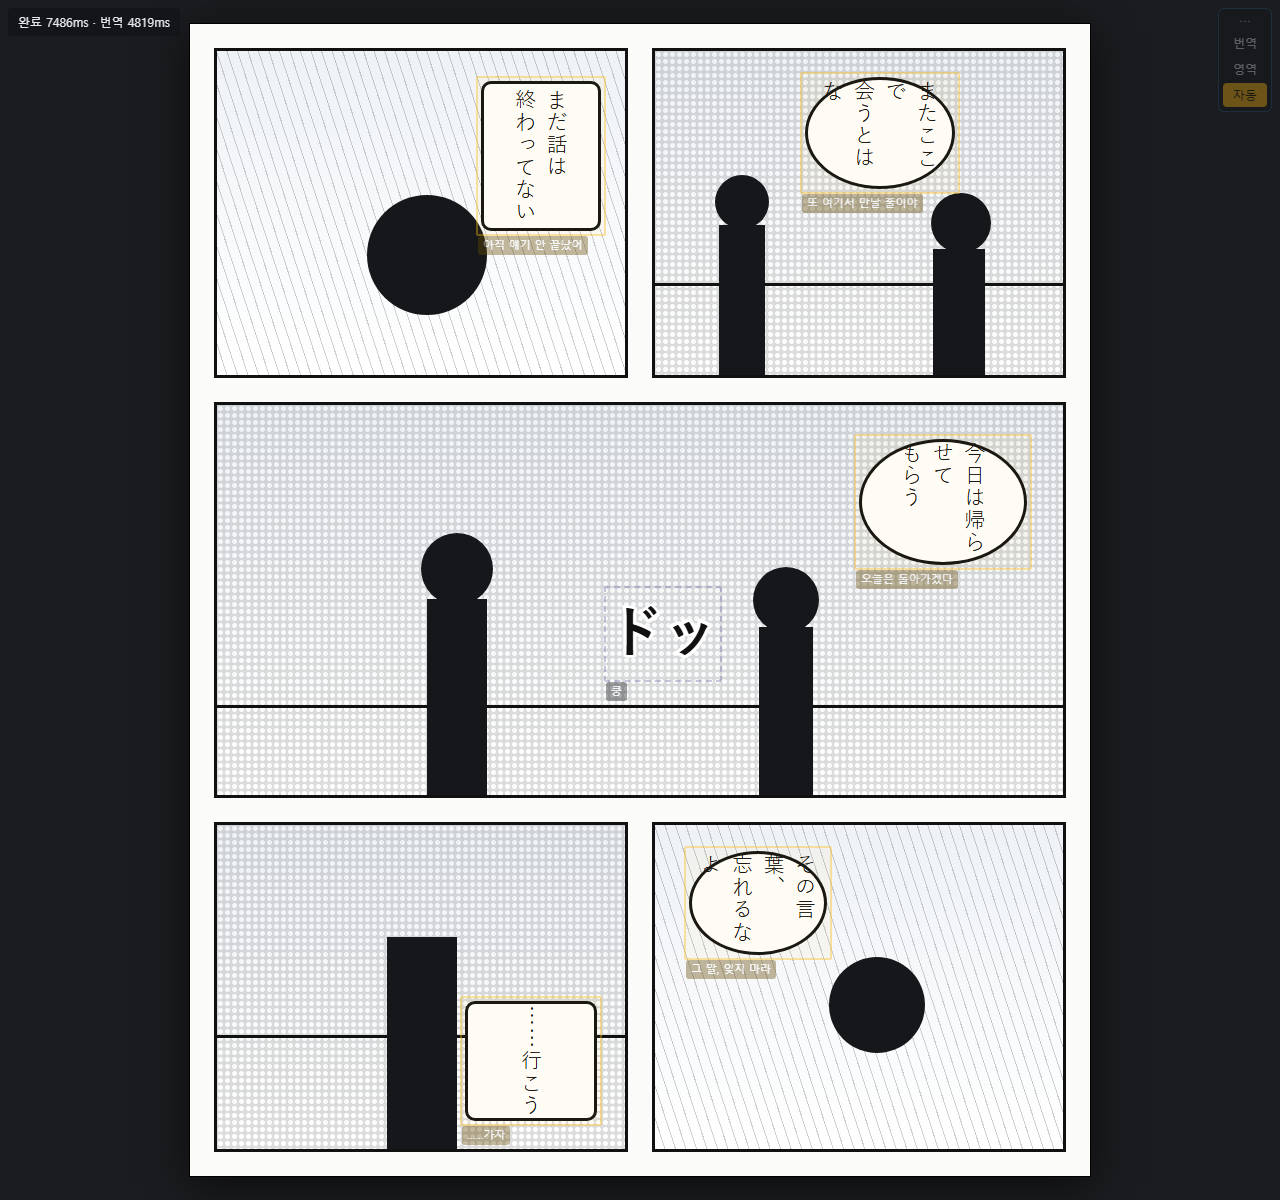
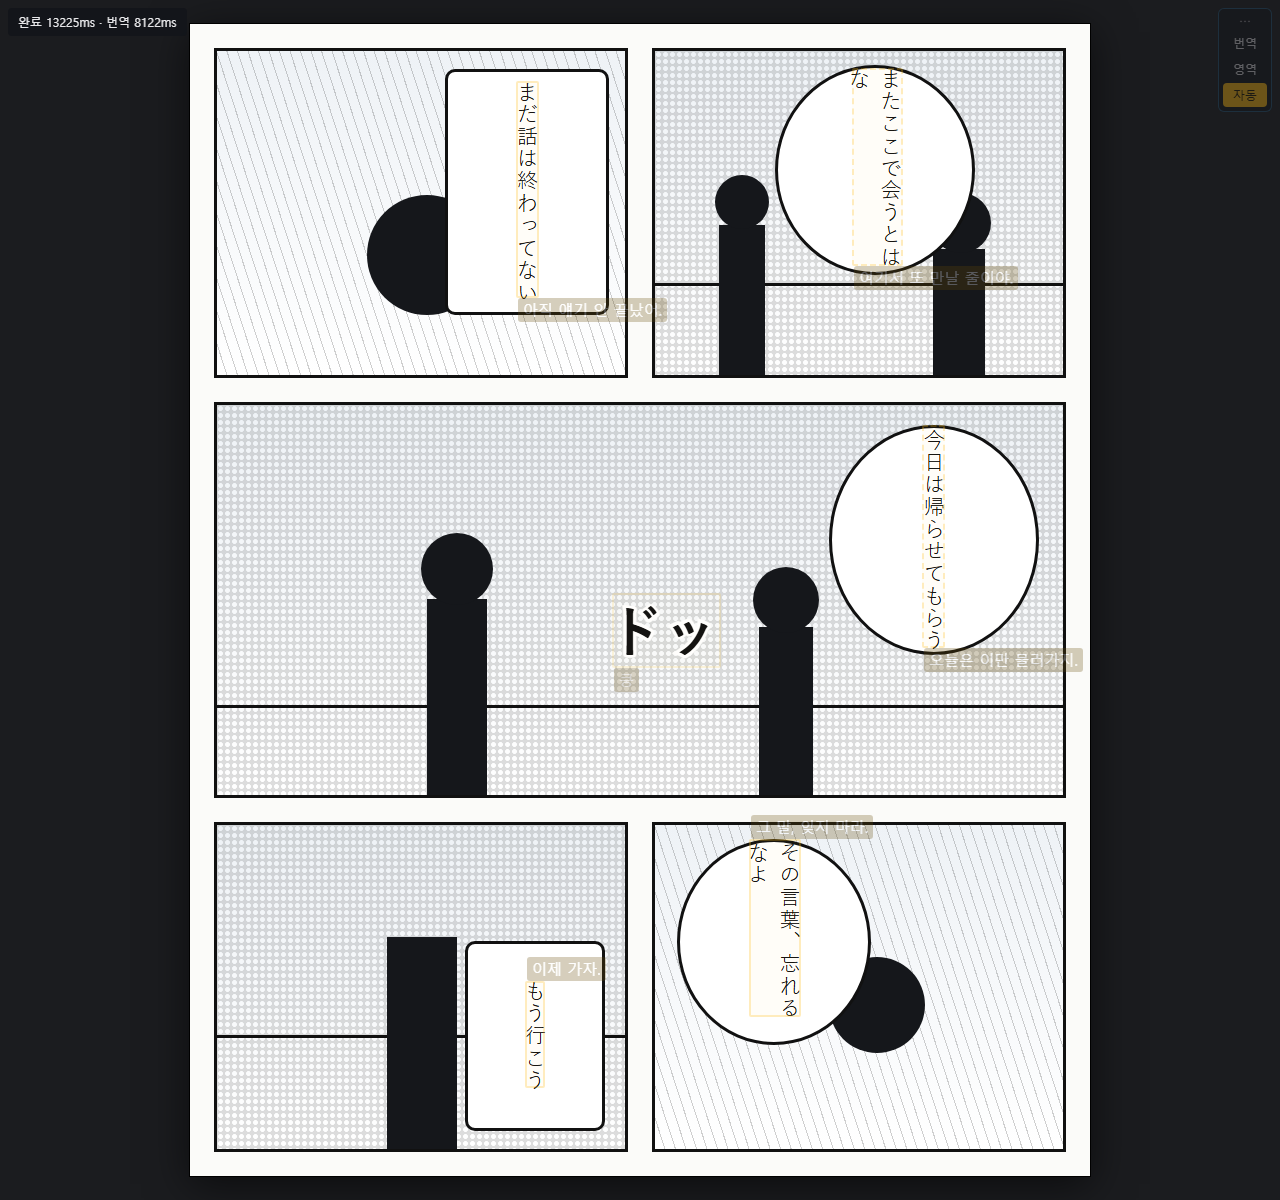
스크린샷을 진짜 결과로 바꾼다 — 그림만 손으로 그린 것이다
지어낸 번역문을 얹은 mock 이었다. 이제 그 페이지를 실제 파이프라인에 태운다
(docs/run_demo.py): 검출 → OCR → 읽기 순서 → 번역까지 서비스와 같은 코드다.

  검출 6개 584ms · OCR 4519ms (6곳 전부 정확) · 번역 8122ms (gemini-3.6-flash)
  종류 분류도 맞다 — dialogue 5, sfx 1(ドッ)

박스 좌표·원문·번역·상태줄 숫자가 전부 그 결과에서 온다. 손으로 적은 것은 없다.

걸린 것 두 가지를 고쳤다:
  · 말풍선 글줄을 <br> 로 손수 꺾었더니 세로쓰기 열이 어긋나 OCR 이 두 곳을 틀렸다.
    꺾지 않고 높이에 맡기니 6/6 이 됐다
  · 말풍선 위아래 여백이 좁아 is_bubble 판정 링이 검은 테두리에 닿았다. 여백을
    넓히니 4곳이 말풍선으로 잡힌다 (그래도 2곳은 밖으로 본다 — 합성 그림의 한계다)

라벨 배치는 layoutLabels() 가 하는 일 중 두 가지만 흉내 냈다 (아래쪽은 위로 붙이고,
오른쪽 끝에서는 폭을 줄인다). CSS 에 이미 있는 훅을 쓴다.

diff --git a/docs/demo.html b/docs/demo.html
@@ -59,14 +59,14 @@
     <div class="head" style="left:60px; bottom:146px; width:54px; height:54px"></div>
     <div class="figure" style="right:78px; width:52px; height:126px"></div>
     <div class="head" style="right:72px; bottom:122px; width:60px; height:60px"></div>
-    <div class="bal" data-ko="또 여기서 만날 줄이야" style="left:150px; top:26px; width:150px; height:112px"><span>またここで<br>会うとはな</span></div>
+    <div class="bal" style="left:120px; top:14px; width:200px; height:210px"><span>またここで会うとはな</span></div>
   </div>
 
   <!-- ② 왼쪽 위 -->
   <div class="panel" style="left:24px; top:24px; width:414px; height:330px">
     <div class="sky"></div><div class="speed"></div>
     <div class="head" style="left:150px; bottom:60px; width:120px; height:120px"></div>
-    <div class="bal sq" data-ko="아직 얘기 안 끝났어" style="right:24px; top:30px; width:120px; height:150px"><span>まだ話は<br>終わってない</span></div>
+    <div class="bal sq" style="right:16px; top:18px; width:164px; height:246px"><span>まだ話は終わってない</span></div>
   </div>
 
   <!-- ③ 오른쪽 아래 (넓은 칸) -->
@@ -77,21 +77,21 @@
     <div class="head" style="left:204px; bottom:190px; width:72px; height:72px"></div>
     <div class="figure" style="right:250px; width:54px; height:168px"></div>
     <div class="head" style="right:244px; bottom:162px; width:66px; height:66px"></div>
-    <div class="sfx" data-ko="쿵" data-kind="sfx" style="left:392px; top:186px">ドッ</div>
-    <div class="bal" data-ko="오늘은 돌아가겠다" style="right:36px; top:34px; width:168px; height:126px"><span>今日は帰らせて<br>もらう</span></div>
+    <div class="sfx" style="left:392px; top:186px">ドッ</div>
+    <div class="bal" style="right:24px; top:20px; width:210px; height:230px"><span>今日は帰らせてもらう</span></div>
   </div>
 
   <!-- ④ 아래 두 칸 -->
   <div class="panel" style="left:462px; top:798px; width:414px; height:330px">
     <div class="sky"></div><div class="speed"></div>
     <div class="head" style="left:174px; bottom:96px; width:96px; height:96px"></div>
-    <div class="bal" data-ko="그 말, 잊지 마라" style="left:34px; top:26px; width:138px; height:104px"><span>その言葉、<br>忘れるなよ</span></div>
+    <div class="bal" style="left:22px; top:14px; width:194px; height:206px"><span>その言葉、忘れるなよ</span></div>
   </div>
   <div class="panel" style="left:24px; top:798px; width:414px; height:330px">
     <div class="sky"></div><div class="tone"></div>
     <div class="horizon" style="top:210px"></div>
     <div class="figure" style="left:170px; width:70px; height:212px"></div>
-    <div class="bal sq" data-ko="……가자" style="right:28px; bottom:28px; width:132px; height:120px"><span>……行こう</span></div>
+    <div class="bal sq" style="right:20px; bottom:18px; width:140px; height:190px"><span>もう行こう</span></div>
   </div>
 </div>
 
@@ -99,7 +99,9 @@
      여기서부터가 확장이 그리는 것. 구조·클래스·스타일 전부 실물과 같다.
      좌표만 위 가짜 페이지에 맞춰 손으로 넣었다.
      =================================================================== -->
-<div id="mlr-overlay" class="mlr-show-all">
+<!-- 라벨 크기는 옵션 화면에서 고르는 값이다 (9-20px). 그림용으로 16px.
+     mlr-show-extra 는 「효과음」을 켠 상태 — ドッ 박스가 그래서 보인다. -->
+<div id="mlr-overlay" class="mlr-show-all mlr-show-extra" style="--mlr-label-size:16px">
   <div id="mlr-status">완료 7486ms · 번역 4819ms</div>
 
   <div id="mlr-boxes"></div>
@@ -112,21 +114,33 @@
   </div>
 </div>
 
+<script src="demo-result.js"></script>
 <script>
-// **박스는 재서 놓는다.** 손으로 좌표를 넣었더니 말풍선에서 밀렸다 — 실제 확장도
-// 검출된 bbox 를 받아 놓는 것이지 사람이 적어 넣지 않는다.
-const boxes = document.getElementById("mlr-boxes");
-for (const el of document.querySelectorAll("[data-ko]")) {
-  const r = el.getBoundingClientRect();
-  const pad = 5;                       // 검출 박스는 글자보다 조금 넓게 잡힌다
-  const div = document.createElement("div");
-  div.className = "mlr-box " + (el.dataset.kind === "sfx" ? "mlr-sfx" : "mlr-translated");
-  Object.assign(div.style, {
-    left: `${r.left - pad}px`, top: `${r.top - pad}px`,
-    width: `${r.width + pad * 2}px`, height: `${r.height + pad * 2}px`,
-  });
-  div.innerHTML = `<span class="mlr-label">${el.dataset.ko}</span>`;
-  boxes.appendChild(div);
+// **박스도 번역도 실물이다.** demo-result.js 는 docs/run_demo.py 가 이 페이지를
+// 검출 → OCR → 번역에 그대로 태워 만든 결과다. 좌표는 파이프라인이 낸 bbox 다.
+if (location.search.includes("bare")) {
+  document.getElementById("mlr-overlay").style.display = "none";
+} else if (window.MLR_RESULT) {
+  const boxes = document.getElementById("mlr-boxes");
+  for (const r of MLR_RESULT.regions) {
+    const [x, y, w, h] = r.bbox;
+    const div = document.createElement("div");
+    // content.js 와 같은 규칙: 말풍선 밖이면 mlr-sfx, 번역이 오면 mlr-translated
+    div.className = "mlr-box" + (r.is_bubble ? "" : " mlr-sfx") +
+                    (r.ko ? " mlr-translated" : "") +
+                    (r.kind === "sfx" || r.kind === "extra" ? ` mlr-kind-${r.kind}` : "");
+    Object.assign(div.style, { left: `${x}px`, top: `${y}px`, width: `${w}px`, height: `${h}px` });
+    div.innerHTML = `<span class="mlr-label">${r.ko || r.ja}</span>`;
+    // 실제 앱은 layoutLabels() 가 겹침·화면 밖을 푼다. 여기서는 그중 두 가지만
+    // 흉내 낸다 — 아래쪽 박스는 라벨을 위로 붙이고, 오른쪽 끝에서는 폭을 줄인다.
+    // (CSS 에 이미 있는 훅이다: .mlr-label-above, --mlr-label-max)
+    if (y + h > innerHeight * 0.62) div.classList.add("mlr-label-above");
+    div.style.setProperty("--mlr-label-max", `${Math.max(120, Math.min(240, innerWidth - x - 12))}px`);
+    boxes.appendChild(div);
+  }
+  const t = MLR_RESULT.timings_ms;
+  document.getElementById("mlr-status").textContent =
+    `완료 ${t.detect + t.ocr + t.translate}ms · 번역 ${t.translate}ms`;
 }
 </script>
 </body>

diff --git a/docs/demo-result.js b/docs/demo-result.js
@@ -1,0 +1,90 @@
+// docs/run_demo.py 가 만든다. 손으로 고치지 말 것.
+window.MLR_RESULT = {
+ "source": "docs/_page.png",
+ "model": "gemini-3.6-flash",
+ "timings_ms": {
+  "detect": 584,
+  "ocr": 4519,
+  "translate": 8122
+ },
+ "regions": [
+  {
+   "id": 0,
+   "bbox": [
+    852,
+    68,
+    51,
+    198
+   ],
+   "is_bubble": false,
+   "ja": "またここで会うとはな",
+   "ko": "여기서 또 만날 줄이야.",
+   "kind": "dialogue"
+  },
+  {
+   "id": 1,
+   "bbox": [
+    516,
+    81,
+    23,
+    217
+   ],
+   "is_bubble": true,
+   "ja": "まだ話は終わってない",
+   "ko": "아직 얘기 안 끝났어.",
+   "kind": "dialogue"
+  },
+  {
+   "id": 2,
+   "bbox": [
+    922,
+    425,
+    23,
+    223
+   ],
+   "is_bubble": false,
+   "ja": "今日は帰らせてもらう",
+   "ko": "오늘은 이만 물러가지.",
+   "kind": "dialogue"
+  },
+  {
+   "id": 3,
+   "bbox": [
+    612,
+    593,
+    109,
+    75
+   ],
+   "is_bubble": true,
+   "ja": "ドッ",
+   "ko": "쿵",
+   "kind": "sfx"
+  },
+  {
+   "id": 4,
+   "bbox": [
+    749,
+    839,
+    52,
+    178
+   ],
+   "is_bubble": true,
+   "ja": "その言葉、忘れるなよ",
+   "ko": "그 말, 잊지 마라.",
+   "kind": "dialogue"
+  },
+  {
+   "id": 5,
+   "bbox": [
+    525,
+    981,
+    20,
+    107
+   ],
+   "is_bubble": true,
+   "ja": "もう行こう",
+   "ko": "이제 가자.",
+   "kind": "dialogue"
+  }
+ ]
+};

diff --git a/docs/run_demo.py b/docs/run_demo.py
@@ -1,0 +1,94 @@
+"""docs/_page.png 을 **진짜 파이프라인**에 태워 docs/demo-result.json 을 만든다.
+
+    MTL_ENV_FILE=<키파일> ~/.venvs/mlr/bin/python docs/run_demo.py
+
+검출(comic-text-detector) → OCR(manga-ocr) → 읽기 순서 → 번역까지 서비스와 같은
+코드를 그대로 부른다. HTTP 는 타지 않는다 (`scripts/debug_page.py` 와 같은 방식).
+
+결과 JSON 을 `docs/demo.html` 이 읽어 박스를 놓는다 — 그래서 스크린샷의 박스 위치·
+원문·번역이 전부 실물이다. 그림(칸·말풍선)만 손으로 그린 것이다.
+"""
+
+from __future__ import annotations
+
+import json
+import sys
+import time
+from pathlib import Path
+
+import cv2
+
+ROOT = Path(__file__).resolve().parent.parent
+sys.path.insert(0, str(ROOT / "src"))
+
+from mtl_service import detect, ocr, order, translate  # noqa: E402
+from mtl_service.config import load  # noqa: E402
+from mtl_shared.models import Region  # noqa: E402
+
+
+def main() -> int:
+    cfg = load()
+    img_path = ROOT / "docs" / "_page.png"
+    img = cv2.imread(str(img_path))
+    if img is None:
+        raise SystemExit(f"이미지를 못 읽었다: {img_path}")
+    h, w = img.shape[:2]
+    print(f"입력 {w}×{h}")
+
+    t0 = time.perf_counter()
+    det = detect.detect(img, cfg)
+    t1 = time.perf_counter()
+    print(f"검출 {len(det.regions)}개 · {det.detect_ms}ms (마스크 {det.mask_ms}ms)")
+
+    got = ocr.run(img, det.regions, cfg)
+    t2 = time.perf_counter()
+    regions = order.sort_regions(got.regions, (w, h), cfg.order.min_gap_ratio)
+    for i, r in enumerate(regions):
+        r.id = i
+    print(f"OCR {got.ocr_ms}ms · 남은 region {len(regions)}개")
+    for r in regions:
+        print(f"  #{r.id} {'말풍선' if r.is_bubble else '밖   '} {r.bbox} {r.text}")
+
+    translator = translate.get_translator(cfg.api.model_fast, effort=cfg.api.effort)
+    res = translator.translate(regions, "natural")
+    t3 = time.perf_counter()
+    print(f"번역 {int((t3 - t2) * 1000)}ms · {res.model}")
+
+    by_id = {t.id: t for t in res.regions}
+    out = {
+        "source": "docs/_page.png",
+        "model": res.model,
+        "timings_ms": {
+            "detect": det.detect_ms,
+            "ocr": got.ocr_ms,
+            "translate": int((t3 - t2) * 1000),
+        },
+        "regions": [
+            {
+                "id": r.id,
+                "bbox": list(r.bbox),
+                "is_bubble": r.is_bubble,
+                "ja": r.text,
+                "ko": (by_id.get(r.id).ko if r.id in by_id else ""),
+                "kind": (by_id.get(r.id).kind if r.id in by_id else "line"),
+            }
+            for r in regions
+        ],
+    }
+    dest = ROOT / "docs" / "demo-result.json"
+    dest.write_text(json.dumps(out, ensure_ascii=False, indent=1), encoding="utf-8")
+    # file:// 에서는 fetch 가 막힌다. demo.html 이 <script src> 로 읽게 JS 로도 낸다.
+    js = ROOT / "docs" / "demo-result.js"
+    js.write_text(
+        "// docs/run_demo.py 가 만든다. 손으로 고치지 말 것.\n"
+        "window.MLR_RESULT = " + json.dumps(out, ensure_ascii=False, indent=1) + ";\n",
+        encoding="utf-8",
+    )
+    print(f"→ {dest}\n→ {js}")
+    for r in out["regions"]:
+        print(f"  #{r['id']} {r['ja']} → {r['ko']}")
+    return 0
+
+
+if __name__ == "__main__":
+    raise SystemExit(main())

diff --git a/README.md b/README.md
@@ -32,13 +32,20 @@
 
 ![말풍선 위에 번역이 겹쳐 있는 화면](docs/demo.png)
 
-**합성 화면이다.** 만화는 저작물이라 저장소에 넣지 않으므로(맨 아래 「이용 범위」)
-칸과 말풍선을 직접 그렸고 대사도 지어냈다. **오버레이는 진짜다** —
-`extension/overlay.css` 를 그대로 불러 쓰고 DOM 구조도 `content.js` 가 만드는 것과
-같다. 원본은 `docs/demo.html`, 찍는 것은 `docs/shoot.sh` (윈도우 크롬 헤드리스).
+**그림만 손으로 그렸다.** 만화는 저작물이라 저장소에 넣지 않으므로(맨 아래 「이용
+범위」) 칸·말풍선·인물을 직접 그렸다. **그 위에 얹힌 것은 전부 실제 결과다:**
 
-노란 테두리가 번역이 도착한 말풍선, 점선이 말풍선 밖 글씨(효과음)다. 왼쪽 위가
-상태줄, 오른쪽 위가 버튼 패널 — 켜져 있는 「자동」이 주황색이다.
+| | |
+|---|---|
+| 노란 박스의 위치 | comic-text-detector 가 낸 bbox 그대로 |
+| 일본어 원문 | manga-ocr 이 읽은 것 (6곳 전부 맞았다) |
+| 한국어 라벨 | `gemini-3.6-flash` 가 번역한 것 |
+| 「쿵」의 점선 박스 | 모델이 효과음(sfx)으로 분류한 것 |
+| 왼쪽 위 숫자 | 그때 실제로 걸린 시간 — 검출 584ms · OCR 4519ms · 번역 8122ms |
+
+다시 만들려면 `docs/shoot.sh` 와 `docs/run_demo.py` 다 (GPU·API 키 필요).
+오버레이는 `extension/overlay.css` 를 그대로 불러 쓰고 DOM 구조도 `content.js` 가
+만드는 것과 같다.
 
 ### 옵션 화면
 

diff --git a/QUICKSTART.md b/QUICKSTART.md
@@ -142,7 +142,7 @@ mtl-service → http://127.0.0.1:8788
 
 ![번역이 겹쳐 나온 화면](docs/demo.png)
 
-(위 그림은 실제 만화가 아니라 예시용으로 그린 것이다.)
+(그림은 예시용으로 그린 것이다. 박스와 번역은 실제로 돌려서 나온 결과다.)
  처음 한 장은 모델을 올리느라 10초쯤
 걸리고, 그다음부터는 5초 안쪽이다.
 
